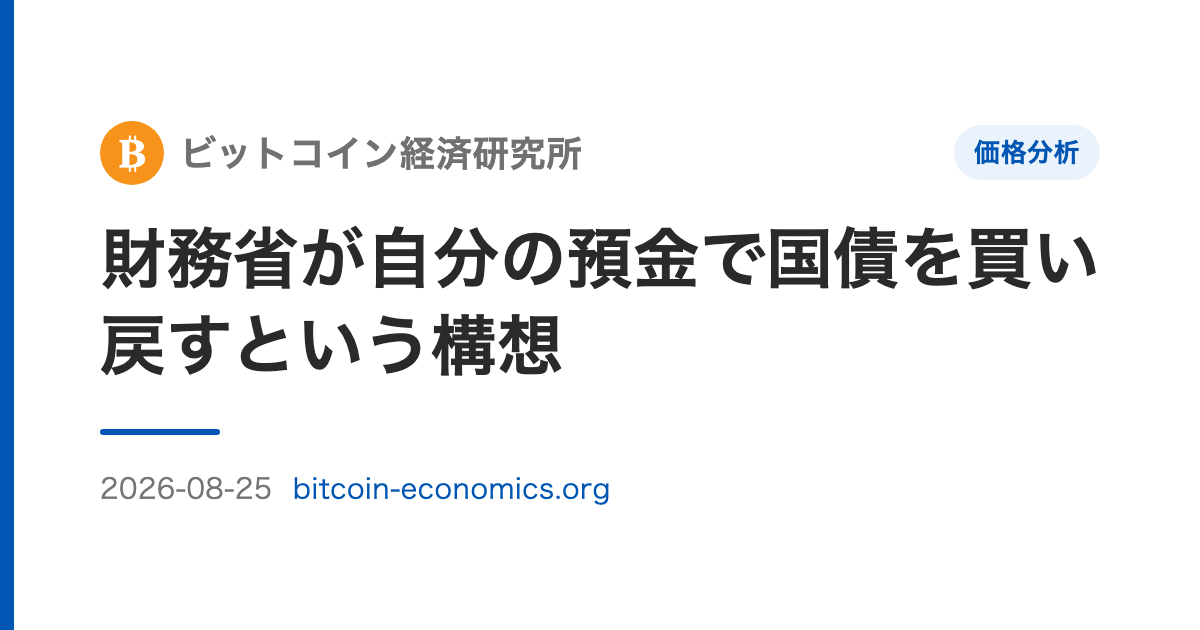
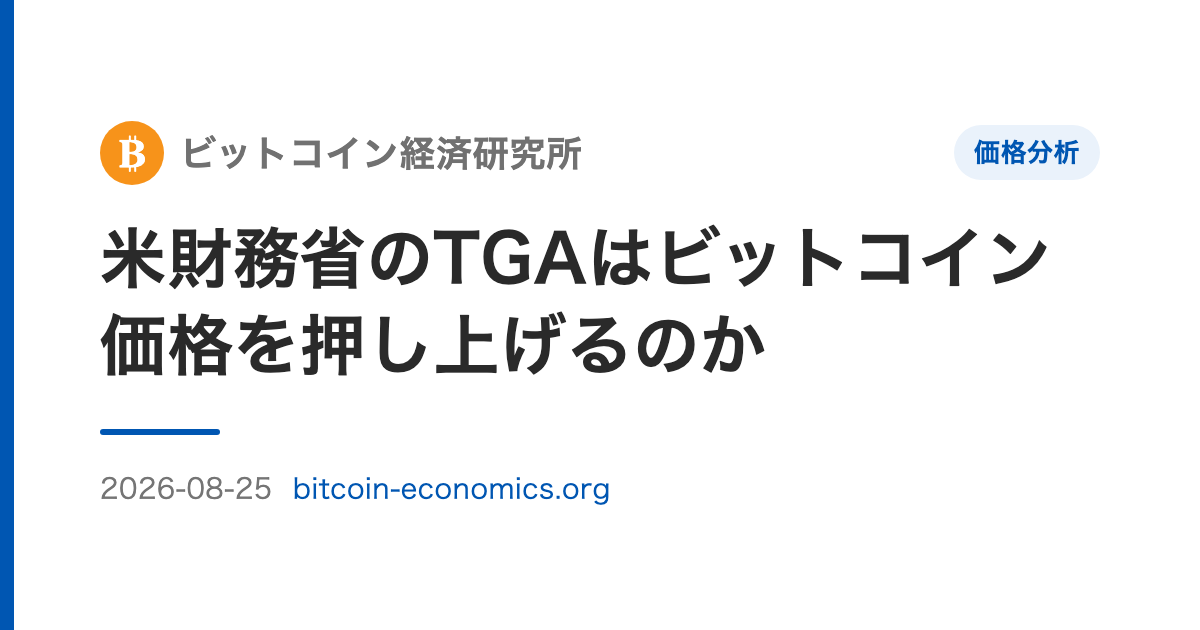
feat(articles): 「米財務省のTGAはビットコイン価格を押し上げるのか」を公開

Changed region(s): [[0.0617, 0.3619, 0.925, 0.4825], [0.0617, 0.4825, 0.6475, 0.6032]]

diff --git a/articles/tga-funded-buybacks.md b/articles/tga-funded-buybacks.md
@@ -1,5 +1,5 @@
 ---
-title: 財務省が自分の預金で国債を買い戻すという構想
+title: 米財務省のTGAはビットコイン価格を押し上げるのか
 description: 米財務省が買い戻しの原資をTGA（政府一般口座）に求める可能性に言及した。中立だったはずの操作がQEと機能的に等しくなる仕組みと、FOMCを経ずに緩和を作れるという政治的含意を追う。
 date: 2026-08-25
 category: 価格分析
@@ -7,7 +7,7 @@ status: done
 tags: [TGA, 米国債, 買い戻し, 流動性, bitcoin]
 ---
 
-# 財務省が自分の預金で国債を買い戻すという構想
+# 米財務省のTGAはビットコイン価格を押し上げるのか
 
 米財務省は8月19日、長期国債の買い戻し規模を1回あたり20億ドルから40億ドル以上へ拡大すると発表しました。
 その原資について、財務省高官2人が政府の預金口座の残高を充てる可能性に言及したと報じられています。
